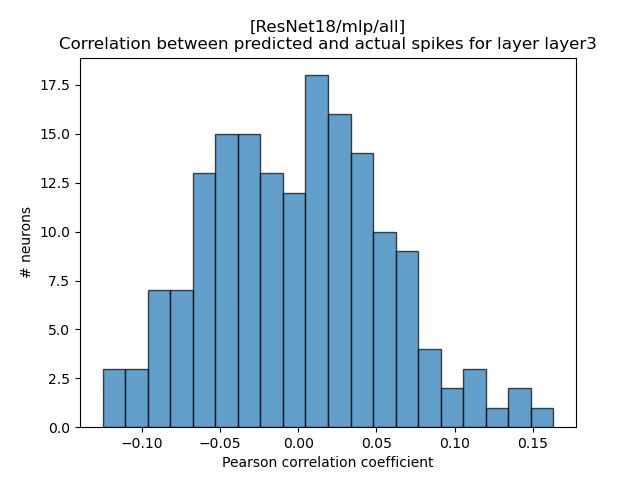
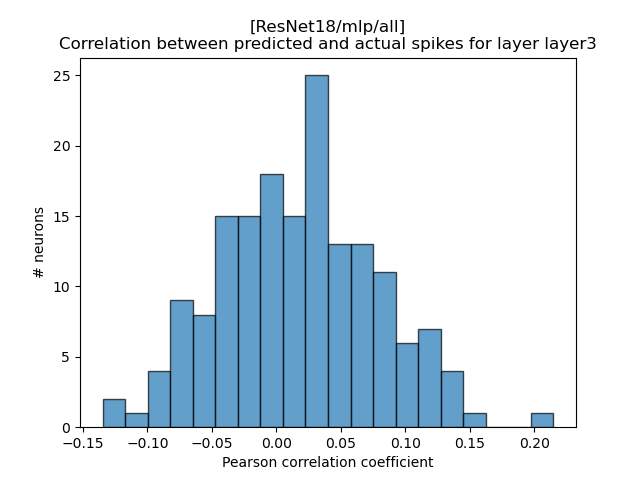
Seeded everything

diff --git a/src/tools/regression.py b/src/tools/regression.py
@@ -2,7 +2,7 @@ from sklearn.discriminant_analysis import StandardScaler
 from sklearn.linear_model import LinearRegression, Ridge
 from sklearn.neural_network import MLPRegressor
 
-def fit(x, y, method):
+def fit(x, y, method, seed):
     """Fits a regression model to the activations of the model.
 
     Args:
@@ -20,9 +20,9 @@ def fit(x, y, method):
     if method == 'linear':
         return _fit_linear_regression(x, y)
     elif method == 'ridge':
-        return _fit_ridge_regression(x, y)
+        return _fit_ridge_regression(x, y, seed)
     elif method == 'mlp':
-        return _fit_mlp_regression(x, y)
+        return _fit_mlp_regression(x, y, seed)
     else:
         raise ValueError(f"Unknown method: {method}. Supported methods are 'linear', 'ridge', and 'mlp'.")
 
@@ -39,7 +39,7 @@ def _fit_linear_regression(x, y):
     linreg.fit(x, y)
     return linreg
         
-def _fit_ridge_regression(x, y):
+def _fit_ridge_regression(x, y, seed):
     """
     Fits a ridge regression model to the activations of the model.
     Args:
@@ -48,11 +48,11 @@ def _fit_ridge_regression(x, y):
     Returns:
         model: the fitted regression model, that possess the method `predict`.
     """
-    ridge = Ridge()
+    ridge = Ridge(random_state=seed)
     ridge.fit(x, y)
     return ridge
 
-def _fit_mlp_regression(x, y): # TODO MLP does not work at all, find out why
+def _fit_mlp_regression(x, y, seed): # TODO MLP does not work at all, find out why
     """
     Trains an MLP to fit the activations of the model.
     Args:
@@ -64,6 +64,6 @@ def _fit_mlp_regression(x, y): # TODO MLP does not work at all, find out why
     """
     scaler = StandardScaler()
     x_scaled = scaler.fit_transform(x)
-    mlp = MLPRegressor(hidden_layer_sizes=(64, 32), max_iter=200, early_stopping=True, verbose=True) # max_iter is the number of epochs
+    mlp = MLPRegressor(hidden_layer_sizes=(64, 32), max_iter=200, early_stopping=True, verbose=True, random_state=seed) # max_iter is the number of epochs
     mlp.fit(x_scaled, y)
     return mlp, scaler

diff --git a/src/tools/prober.py b/src/tools/prober.py
@@ -24,7 +24,7 @@ def score(model, layer_name, args):
         _compute_score(spikes_val, out, layer_name, args)
         print('DONE!')
 
-def linprob(model, args):
+def linprob(model, seed, args):
     """Linear probing of the model.
 
     Args:
@@ -32,11 +32,11 @@ def linprob(model, args):
         args (argparse.Namespace): the arguments passed to the script.
     """
     if args.finetune:
-        _linprob_finetuned(model, args)
+        _linprob_finetuned(model, seed, args)
     else:
-        _linprob(model, args)
+        _linprob(model, seed, args)
 
-def _linprob_finetuned(model, args):
+def _linprob_finetuned(model, seed, args):
     """
     In this case, the finetuning is done after a given layer (in args). We thus need to probe
     only the previous to last layer (last is MLP).
@@ -58,7 +58,7 @@ def _linprob_finetuned(model, args):
         activations = model.get_activations(args.hook)
 
         print('\tLayer:', args.layer)
-        regression = fit(activations, spikes_train, method=args.probing)
+        regression = fit(activations, spikes_train, method=args.probing, seed=seed)
 
         # Test the regression on the validation set
         print('Testing the regression...')
@@ -79,7 +79,7 @@ def _linprob_finetuned(model, args):
         _compute_score(spikes_val, pred_activity, args.layer, args)
         print('Done!')
 
-def _linprob(model, args):
+def _linprob(model, seed, args):
     model.eval()
     layer_regressions = dict()
 
@@ -119,7 +119,7 @@ def _linprob(model, args):
         print('Fitting the regressions...')
         for layer_name, _ in model.get_layers():
             print('\tLayer:', layer_name)
-            layer_regressions[layer_name] = fit(activations[layer_name], spikes_train, method=args.probing)
+            layer_regressions[layer_name] = fit(activations[layer_name], spikes_train, method=args.probing, seed=seed)
 
         # Test the regression on the validation set
         print('Testing the regression...')

diff --git a/src/main.py b/src/main.py
@@ -2,12 +2,14 @@ import argparse
 
 import torch
 
+from utils.seed import set_seed
 from utils.utils import download_data
 from models.build import make_model
 from tools.trainer import finetune
 from tools.prober import linprob, score
 
 def main(args):
+    seed = set_seed()
     download_data('./data/') # Download the data if not already done
     model = make_model(args.name)
     if args.finetune:
@@ -19,7 +21,7 @@ def main(args):
         print(model)
 
     if not args.finetune or args.driven == 'task':
-        linprob(model, args)
+        linprob(model, seed, args)
     else:
         # No need to do probing, just pass through the model
         score(model, args.layer, args)

diff --git a/src/models/mlp_reg.py b/src/models/mlp_reg.py
@@ -6,9 +6,9 @@ from models.build import MODEL_REGISTRY
 
 @MODEL_REGISTRY.register()
 class mlp_reg(IModel):
-    def __init__(self):
+    def __init__(self, seed):
         super(mlp_reg, self).__init__()
-        self.model = MLPRegressor(hidden_layer_sizes=(64, 32), max_iter=200, early_stopping=True, verbose=True) # max_iter is the number of epochs
+        self.model = MLPRegressor(hidden_layer_sizes=(64, 32), max_iter=200, early_stopping=True, verbose=True, random_state=seed) # max_iter is the number of epochs
         self.ACTs = {} 
 
     def forward(self, images):

diff --git a/src/models/convnext.py b/src/models/convnext.py
@@ -13,6 +13,7 @@ class ConvNeXt(IModel):
         """
         Returns the layers on which to do the linear probing.
         """
-        layer7 = list(self.model.children())[-1]
+        layer7 = self.model.get_submodule("features.7")
+        avgpool = self.model.get_submodule("avgpool")
         classif = self.model.get_submodule("classifier")
-        return [('layer7', layer7), ('classifier', classif)]
+        return [('avgpool', avgpool), ('layer7', layer7), ('classifier', classif)]

diff --git a/src/utils/seed.py b/src/utils/seed.py
@@ -1,0 +1,15 @@
+import random
+import numpy as np
+import torch
+
+def set_seed():
+    seed = 0
+    random.seed(seed)
+    np.random.seed(seed)
+    torch.manual_seed(seed)
+    if torch.cuda.is_available():
+        torch.cuda.manual_seed_all(seed)
+    torch.backends.cudnn.deterministic = True
+    torch.backends.cudnn.benchmark = False
+    torch.use_deterministic_algorithms(True)
+    return seed

diff --git a/src/models/ridge_reg.py b/src/models/ridge_reg.py
@@ -5,9 +5,9 @@ from models.build import MODEL_REGISTRY
 
 @MODEL_REGISTRY.register()
 class ridge_reg(IModel):
-    def __init__(self):
+    def __init__(self, seed):
         super(ridge_reg, self).__init__()
-        self.model = Ridge(alpha=1.0, solver='svd')
+        self.model = Ridge(alpha=1.0, solver='svd', random_state=seed)
         self.ACTs = {} 
 
     def forward(self, images):

diff --git a/src/models/resnext.py b/src/models/resnext.py
@@ -16,6 +16,5 @@ class ResNeXt(IModel):
         layer3 = self.model.get_submodule("layer3")
         layer4 = self.model.get_submodule("layer4")
         avgpool = self.model.get_submodule("avgpool")
-        
         return [('layer3', layer3), ('layer4', layer4), ('avgpool', avgpool)]
         

diff --git a/src/models/linear_reg.py b/src/models/linear_reg.py
@@ -5,7 +5,7 @@ from models.build import MODEL_REGISTRY
 
 @MODEL_REGISTRY.register()
 class linear_reg(IModel):
-    def __init__(self):
+    def __init__(self, seed):
         super(linear_reg, self).__init__()
         self.model = LinearRegression()
         self.ACTs = {} 
